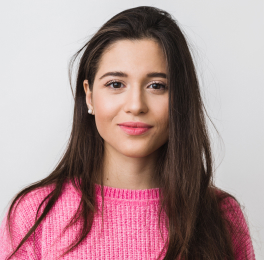
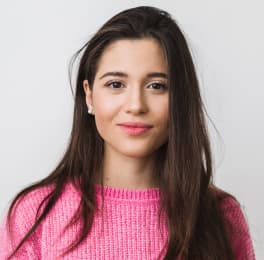
optimized images

diff --git a/index.html b/index.html
@@ -1,3 +1,4 @@
+<!DOCTYPE html>
 <html lang="en">
 <head>
     <meta charset="UTF-8">
@@ -26,7 +27,7 @@
                     <a href="mailto:info@devstudio.com">info@devstudio.com</a>
                 </li>
                 <li>
-                    <a href="tel:+11 (000) 111-11-11">+11 (000) 111-11-11</a>
+                    <a href="tel:+11(000)111-11-11">+11 (000) 111-11-11</a>
                 </li>
             </ul>
     </header>
